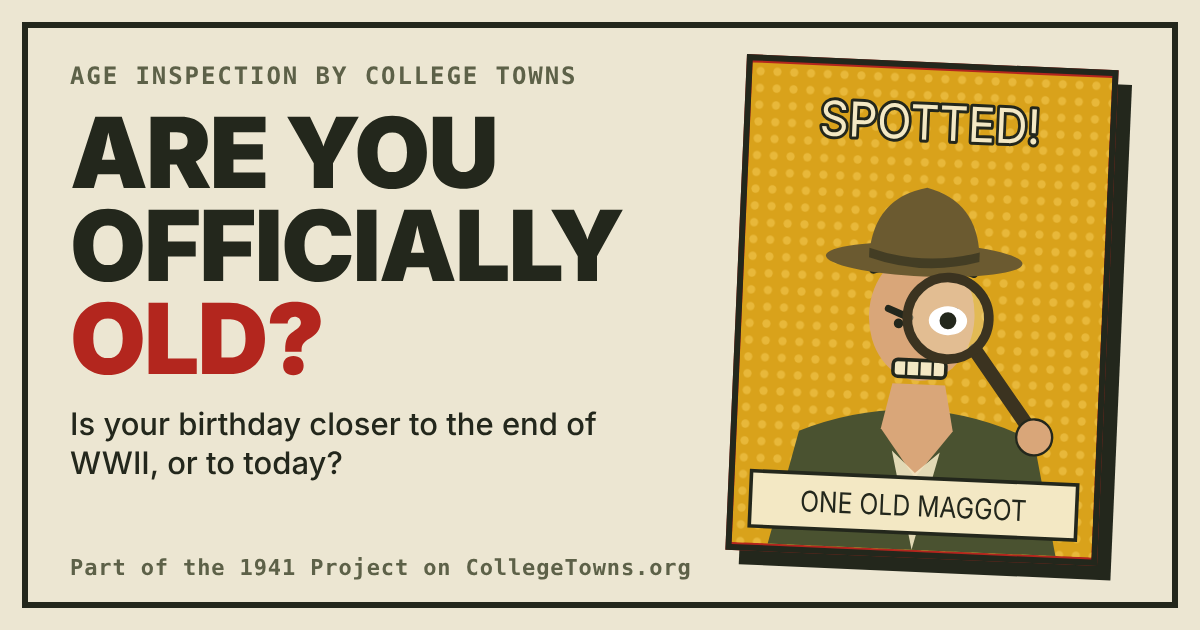
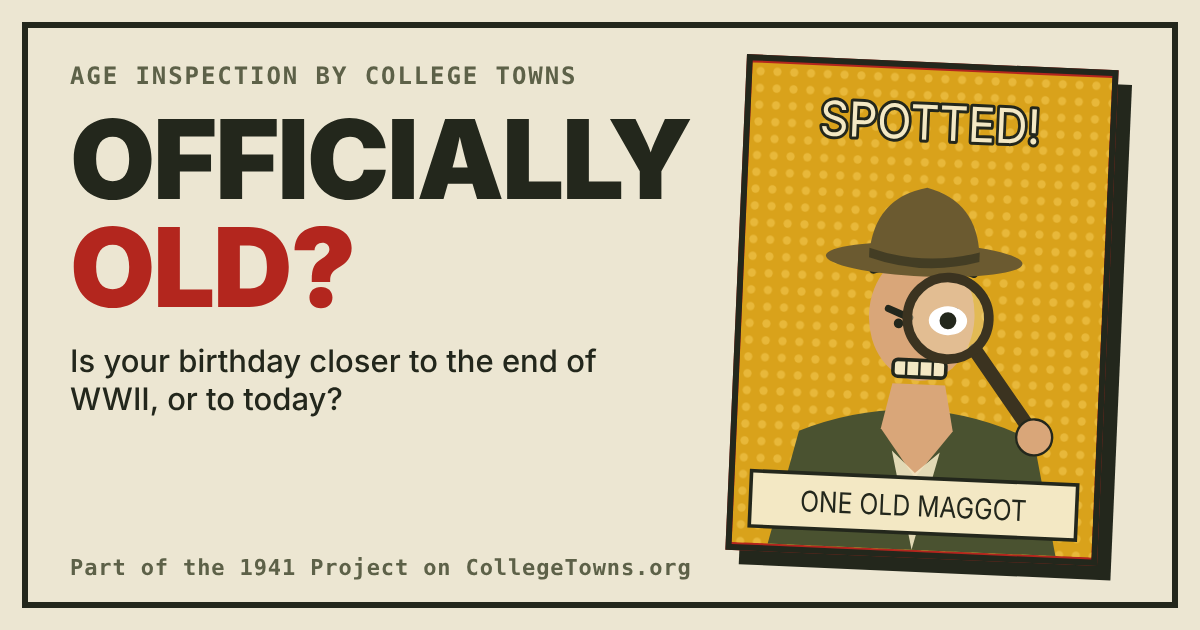
Rename to Officially Old?
Claude-Session: https://claude.ai/code/session_014uB6UroGMx4fkJEWPXR2dY

Changed region(s): [[0.0617, 0.181, 0.5858, 0.754]]

diff --git a/index.html b/index.html
@@ -10,19 +10,19 @@
 <link rel="apple-touch-icon" href="apple-touch-icon.png">
 <meta property="og:type" content="website">
 <meta property="og:site_name" content="The 1941 Project, by College Towns">
-<meta property="og:title" content="Are You Officially Old?">
+<meta property="og:title" content="Officially Old?">
 <meta property="og:description" content="Is your birthday, or your favorite movie, closer to the end of WWII or to today? Find out.">
 <meta property="og:url" content="https://1941project.collegetowns.org/">
 <meta property="og:image" content="https://1941project.collegetowns.org/og-image.png">
 <meta property="og:image:width" content="1200">
 <meta property="og:image:height" content="630">
-<meta property="og:image:alt" content="Are You Officially Old? A drill-sergeant inspector poster reading Spotted! One Old Maggot.">
+<meta property="og:image:alt" content="Officially Old? A drill-sergeant inspector poster reading Spotted! One Old Maggot.">
 <meta name="twitter:card" content="summary_large_image">
-<meta name="twitter:title" content="Are You Officially Old?">
+<meta name="twitter:title" content="Officially Old?">
 <meta name="twitter:description" content="Is your birthday, or your favorite movie, closer to the end of WWII or to today? Find out.">
 <meta name="twitter:image" content="https://1941project.collegetowns.org/og-image.png">
 <style>:root{color-scheme:light}body{margin:0}img{max-width:100%}[hidden]{display:none!important}</style>
-<title>Are You Officially Old?</title>
+<title>Officially Old?</title>
 <meta name="claude:viewport-fit-sides" content="cover">
 <link rel="stylesheet" href="https://fonts.googleapis.com/css2?family=Barlow+Condensed:wght@300;500;700&family=IBM+Plex+Mono:wght@400;600&family=Stardos+Stencil:wght@700&display=swap">
 <style>
@@ -193,7 +193,7 @@ figure { margin: 0; }
 <main class="wrap">
   <header class="mast">
     <div class="form-no">Age inspection by <a href="https://collegetowns.org" target="_blank" rel="noopener">College Towns</a></div>
-    <h1>Are You Officially Old?</h1>
+    <h1>Officially Old?</h1>
     <p class="lede" id="lede">Enter your year or date of birth. We measure whether you were born closer to the end of World War II or to today.</p>
   </header>
 
@@ -1244,7 +1244,7 @@ figure { margin: 0; }
       head: r.inWar ? "Born in the war, soldier." : r.closerToWar ? "You are old." : "Sorry, young whippersnapper.",
       sub: r.inWar ? "Born in " + new Date(birthMs).getUTCFullYear() + ", during WWII." : "Born in " + new Date(birthMs).getUTCFullYear() + ", closer to " + (r.closerToWar ? "the end of WWII than to today." : "today than to the end of WWII."),
       dist: distLine(r),
-      cta: "Are you officially old?"
+      cta: "Officially old?"
     };
     document.getElementById("result").innerHTML = html;
 
@@ -1450,8 +1450,8 @@ figure { margin: 0; }
       g.strokeStyle = INKC; g.lineWidth = 8; g.strokeRect(28, 28, W - 56, H - 56);
       g.textBaseline = "alphabetic"; g.textAlign = "left";
       g.fillStyle = INKC;
-      fitFont(g, "ARE YOU OFFICIALLY OLD?", 700, DISPLAY, 64, W - 128);
-      g.fillText("ARE YOU OFFICIALLY OLD?", 64, 122);
+      fitFont(g, "OFFICIALLY OLD?", 700, DISPLAY, 64, W - 128);
+      g.fillText("OFFICIALLY OLD?", 64, 122);
       g.fillStyle = MUTED; g.font = "600 24px " + MONO;
       g.fillText("AGE INSPECTION BY COLLEGE TOWNS", 64, 164);
       var pw = 570, ph = 760, px = (W - pw) / 2, py = 190;
